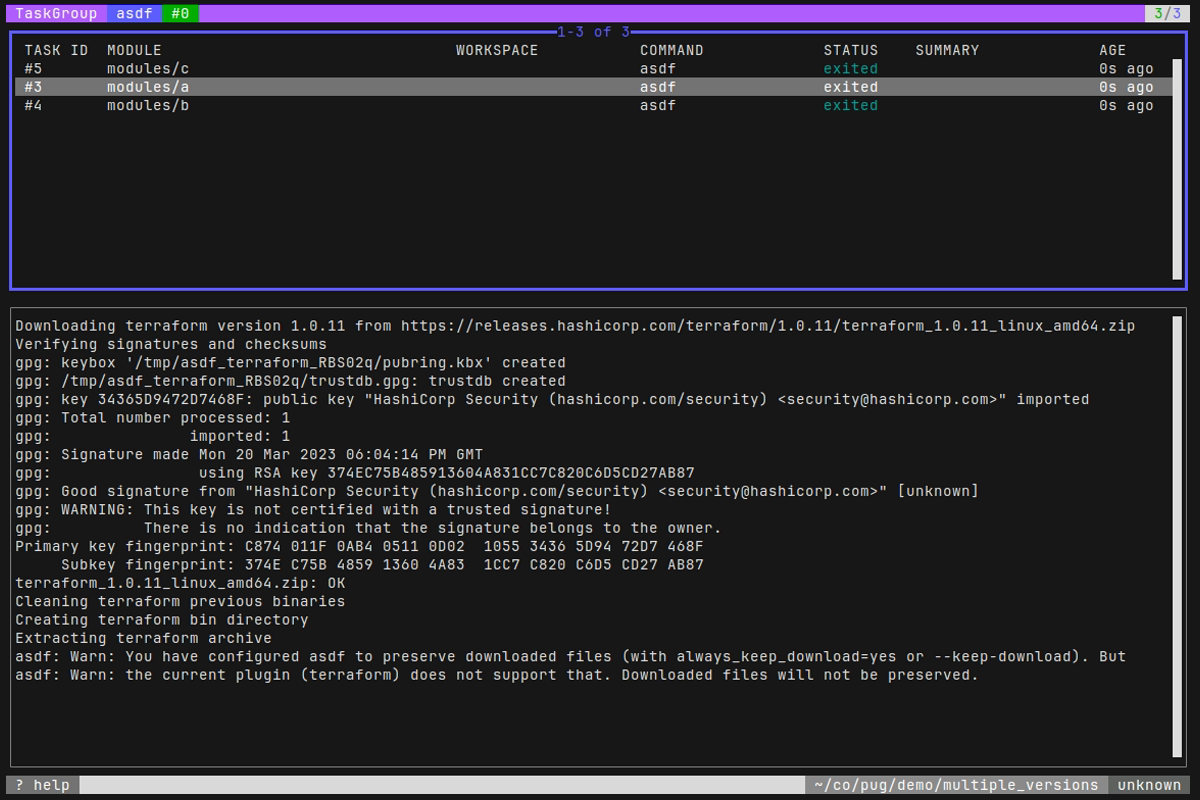
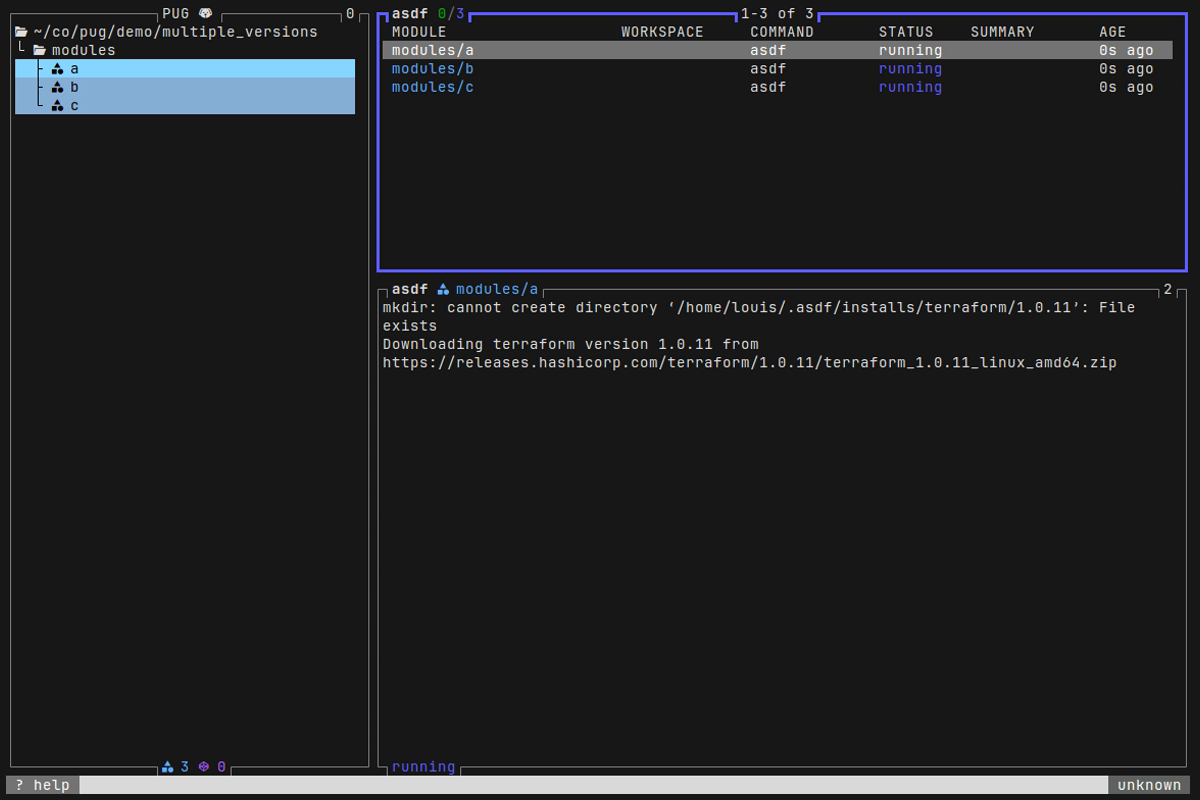
chore: update demo and docs

diff --git a/internal/tui/top/model.go b/internal/tui/top/model.go
@@ -72,6 +72,7 @@ func newModel(cfg app.Config, app *app.App) (model, error) {
 		States:     app.States,
 		Tasks:      app.Tasks,
 		Logger:     app.Logger,
+		Workdir:    cfg.Workdir,
 	}
 	spinner := spinner.New(spinner.WithSpinner(spinner.Line))
 	makers := makeMakers(cfg, app, &spinner, helpers)
@@ -353,7 +354,6 @@ func (m model) View() string {
 			Render(m.info)
 	}
 	footer += versionWidget
-	footer += pugIconWidget
 	// Add footer
 	components = append(components, tui.Regular.
 		Inline(true).
@@ -366,13 +366,12 @@ func (m model) View() string {
 
 var (
 	helpWidget    = tui.Padded.Background(tui.Grey).Foreground(tui.White).Render("? help")
-	pugIconWidget = tui.Padded.Background(tui.HotPink).Foreground(tui.EvenLighterGrey).Render(" ")
 	versionWidget = tui.Padded.Background(tui.DarkGrey).Foreground(tui.White).Render(version.Version)
 )
 
 func (m model) availableFooterMsgWidth() int {
 	// -2 to accommodate padding
-	return max(0, m.width-lipgloss.Width(helpWidget)-lipgloss.Width(pugIconWidget)-lipgloss.Width(versionWidget))
+	return max(0, m.width-lipgloss.Width(helpWidget)-lipgloss.Width(versionWidget))
 }
 
 // type taskCompletionMsg struct {

diff --git a/internal/tui/style.go b/internal/tui/style.go
@@ -10,15 +10,6 @@ var (
 	Border      = Regular.Border(lipgloss.NormalBorder())
 	ThickBorder = Regular.Border(lipgloss.ThickBorder()).BorderForeground(Violet)
 
-	Title          = Padded.Foreground(White).Background(Purple)
-	TitleCommand   = Padded.Foreground(White).Background(Blue)
-	TitlePath      = Padded.Foreground(White).Background(modulePathColor)
-	TitleWorkspace = Padded.Foreground(White).Background(Green)
-	TitleID        = Padded.Foreground(White).Background(Green)
-	TitleAddress   = Padded.Foreground(White).Background(Blue)
-	TitleSerial    = Padded.Foreground(Black).Background(Orange)
-	TitleTainted   = Padded.Foreground(White).Background(Red)
-
-	ModuleStyle    = Regular.Foreground(Purple)
-	WorkspaceStyle = Regular.Foreground(Pink)
+	ModuleStyle    = Regular.Foreground(DarkishGreen)
+	WorkspaceStyle = Regular.Foreground(Purple)
 )

diff --git a/internal/tui/color.go b/internal/tui/color.go
@@ -13,6 +13,7 @@ const (
 	Green           = lipgloss.Color("34")
 	Turquoise       = lipgloss.Color("86")
 	DarkGreen       = lipgloss.Color("#325451")
+	DarkishGreen    = lipgloss.Color("75")
 	LightGreen      = lipgloss.Color("47")
 	GreenBlue       = lipgloss.Color("#00A095")
 	DeepBlue        = lipgloss.Color("39")
@@ -26,7 +27,6 @@ const (
 	DarkGrey        = lipgloss.Color("#606362")
 	White           = lipgloss.Color("#ffffff")
 	OffWhite        = lipgloss.Color("#a8a7a5")
-	Pink            = lipgloss.Color("30")
 	HotPink         = lipgloss.Color("200")
 )
 
@@ -62,11 +62,6 @@ var (
 	TitleColor = lipgloss.AdaptiveColor{
 		Dark:  "",
 		Light: "",
-	}
-
-	modulePathColor = lipgloss.AdaptiveColor{
-		Dark:  string(Grey),
-		Light: string(Grey),
 	}
 
 	GroupReportBackgroundColor = EvenLighterGrey

diff --git a/internal/tui/helpers.go b/internal/tui/helpers.go
@@ -8,6 +8,7 @@ import (
 	"github.com/charmbracelet/bubbles/key"
 	tea "github.com/charmbracelet/bubbletea"
 	"github.com/charmbracelet/lipgloss"
+	"github.com/leg100/pug/internal"
 	"github.com/leg100/pug/internal/logging"
 	"github.com/leg100/pug/internal/module"
 	"github.com/leg100/pug/internal/plan"
@@ -30,6 +31,7 @@ type Helpers struct {
 	Tasks      *task.Service
 	States     *state.Service
 	Logger     logging.Interface
+	Workdir    internal.Workdir
 }
 
 func (h *Helpers) ModuleCurrentWorkspace(mod *module.Module) *workspace.Workspace {

diff --git a/internal/tui/actions.go b/internal/tui/actions.go
@@ -131,6 +131,19 @@ func (m *ActionHandler) Update(msg tea.Msg) tea.Cmd {
 				return nil
 			}
 			return NavigateTo(ResourceListKind, WithParent(ids[0]))
+		case key.Matches(msg, keys.Common.Edit):
+			ids, err := m.GetModuleIDs()
+			if err != nil {
+				return ReportError(err)
+			}
+			if len(ids) == 0 {
+				return nil
+			}
+			mod, err := m.Modules.Get(ids[0])
+			if err != nil {
+				return ReportError(err)
+			}
+			return OpenEditor(m.Workdir.Join(mod.Path))
 		}
 	}
 	return nil

diff --git a/internal/tui/explorer/model.go b/internal/tui/explorer/model.go
@@ -268,6 +268,7 @@ func (m model) BorderText() map[tui.BorderPosition]string {
 		tui.WorkspaceStyle.Render(fmt.Sprintf("%d", m.tracker.totalWorkspaces)),
 	)
 	return map[tui.BorderPosition]string{
+		tui.TopMiddleBorder:    "PUG  ",
 		tui.BottomMiddleBorder: fmt.Sprintf("%s %s", modules, workspaces),
 	}
 }

diff --git a/README.md b/README.md
@@ -64,7 +64,6 @@ FLAGS
       --data-dir STRING              Directory in which to store plan files. (default: /home/louis/.pug)
   -e, --env STRING                   Environment variable to pass to terraform process. Can set more than once.
   -a, --arg STRING                   CLI arg to pass to terraform process. Can set more than once.
-  -f, --first-page STRING            The first page to open on startup. (default: modules)
   -d, --debug                        Log bubbletea messages to messages.log
   -v, --version                      Print version.
   -c, --config STRING                Path to config file. (default: /home/louis/.pug.yaml)
@@ -84,55 +83,40 @@ max-tasks: 100
 
 Pug automatically loads variables from a .tfvars file. It looks for a file named `<workspace>.tfvars` in the module directory, where `<workspace>` is the name of the workspace. For example, if the workspace is named `dev` then it'll look for `dev.tfvars`. If the file exists then it'll pass the name to `terraform plan`, e.g. for a workspace named `dev`, it'll invoke `terraform plan -vars-file=dev.tfvars`.
 
-## Pages
+## Panes
 
-### Modules
+### Explorer
+
+The explorer pane a tree of [modules](#module) and [workspaces](#workspace) discovered on your filesystem. From here, terraform commands can be carried out on both modules and workspaces.
+
+You can select multiple modules or workspaces; you cannot select a combination of the two. Any terraform commands are then carried out on the selection.
+
+The number of resources in the state is shown alongside the workspace.
 
 ![Modules screenshot](./demo/modules.png)
  
-Press `m` to go to the modules page.
-
-*Note: what Pug calls a module is equivalent to a [root module](https://developer.hashicorp.com/terraform/language/modules#the-root-module), i.e. a directory containing terraform configuration, including a state backend. It is not to be confused with a [child module](https://developer.hashicorp.com/terraform/language/modules#child-modules).*
-
 #### Key bindings
 
-| Key | Description | Multi-select |
-|--|--|--|
-|`i`|Run `terraform init`|&check;|
-|`u`|Run `terraform init -upgrade`|&check;|
-|`f`|Run `terraform fmt`|&check;|
-|`v`|Run `terraform validate`|&check;|
-|`p`|Run `terraform plan`|&check;|
-|`P`|Run `terraform plan -destroy`|&check;|
-|`a`|Run `terraform apply`|&check;|
-|`d`|Run `terraform apply -destroy`|&check;|
-|`e`|Open module in editor|&cross;|
-|`x`|Run any program|&check;|
-|`Ctrl+r`|Reload all modules|-|
-|`Ctrl+w`|Reload module's workspaces|&check;|
+| Key | Description | Multi-select | Module | Workspace |
+|--|--|--|--|--|
+|`i`|Run `terraform init`|&check;|&check;|&check;\*\*|
+|`u`|Run `terraform init -upgrade`|&check;|&check;|&check;\*\*|
+|`f`|Run `terraform fmt`|&check;|&check;|&check;\*\*|
+|`v`|Run `terraform validate`|&check;|&check;|&check;\*\*|
+|`p`|Run `terraform plan`|&check;|&check;\*|&check;|
+|`P`|Run `terraform plan -destroy`|&check;|&check;\*|&check;|
+|`a`|Run `terraform apply`|&check;|&check;\*|&check;|
+|`d`|Run `terraform apply -destroy`|&check;|&check;\*|&check;|
+|`C`|Run `terraform workspace select`|&cross;|&cross;|&check;|
+|`$`|Run `infracost breakdown`|&check;|&check;\*|&check;|
+|`E`|Open module in editor|&cross;|&check;|&check;\*\*|
+|`x`|Run any program|&check;|&check;|&check;\*\*|
+|`Ctrl+r`|Reload all modules|-|&check;|&check;|
+|`Ctrl+w`|Reload module's workspaces|&check;|&check;|&check;\*\*|
 
-### Workspaces
+\* Operate on module's current workspace.
 
-![Workspaces screenshot](./demo/workspaces.png)
-
-Press `w` to go to the workspaces page.
-
-*Note: A workspace is directly equivalent to a [terraform workspace](https://developer.hashicorp.com/terraform/language/state/workspaces).*
-
-#### Key bindings
-
-| Key | Description | Multi-select |
-|--|--|--|
-|`i`|Run `terraform init`|&check;|
-|`u`|Run `terraform init -upgrade`|&check;|
-|`f`|Run `terraform fmt`|&check;|
-|`v`|Run `terraform validate`|&check;|
-|`p`|Run `terraform plan`|&check;|
-|`P`|Run `terraform plan -destroy`|&check;|
-|`a`|Run `terraform apply`|&check;|
-|`d`|Run `terraform apply -destroy`|&check;|
-|`C`|Run `terraform workspace select`|&cross;|
-|`$`|Run `infracost breakdown`|&check;|
+\*\* Operate on workspace's parent module.
 
 ### State
 
@@ -149,14 +133,10 @@ Press `s` to go to the state page, listing a workspace's resources.
 |`a`|Run `terraform apply -target`|&check;|
 |`d`|Run `terraform apply -destroy -target`|&check;|
 |`D`|Run `terraform state rm`|&check;|
-|`M`|Run `terraform state mv`|&cross;|
+|`m`|Run `terraform state mv`|&cross;|
 |`Ctrl+t`|Run `terraform taint`|&check;|
 |`U`|Run `terraform untaint`|&check;|
 |`Ctrl+r`|Run `terraform state pull`|-|
-|`S`|Toggle split screen|-|
-|`+`|Increase split screen top pane|-|
-|`-`|Decrease split screen top pane|-|
-|`tab`|Switch split screen pane focus|-|
 
 ### Tasks
 
@@ -170,11 +150,6 @@ Press `t` to go to the tasks page.
 |--|--|--|
 |`c`|Cancel task|&check;|
 |`r`|Retry task|&check;|
-|`Enter`|Full screen task output|&cross;|
-|`S`|Toggle split screen|-|
-|`+`|Increase split screen top pane|-|
-|`-`|Decrease split screen top pane|-|
-|`tab`|Switch split screen pane focus|-|
 |`I`|Toggle task info sidebar|-|
 
 ### Task Group
@@ -189,11 +164,6 @@ Creating multiple tasks, via a selection, creates a task group, and takes you to
 |--|--|--|
 |`c`|Cancel task|&check;|
 |`r`|Retry task|&check;|
-|`Enter`|Full screen task output|&cross;|
-|`S`|Toggle split screen|-|
-|`+`|Increase split screen top pane|-|
-|`-`|Decrease split screen top pane|-|
-|`tab`|Switch split screen pane focus|-|
 |`I`|Toggle task info sidebar|-|
 
 ### Task Groups Listing
@@ -218,16 +188,26 @@ These keys are valid on any page.
 |--|--|
 |`?`|Open help pane|
 |`Ctrl+c`|Quit|
-|`Esc`|Go to previous page|
-|`m`|Go to modules page|
-|`w`|Go to workspaces page|
-|`s`|Go to state page\*|
-|`t`|Go to tasks page|
-|`T`|Go to task groups page|
+|`Esc`|Go to previous page\*\*|
+|`0`|Focus left pane (explorer)|
+|`1`|Focus top right pane|
+|`2`|Focus bottom right pane|
+|`e`|Go to explorer|
+|`s`|Go to state \*|
+|`t`|Go to tasks|
+|`T`|Go to task groups|
 |`l`|Go to logs|
+|`X`|Close pane|
+|`+`|Increase pane height|-|
+|`-`|Decrease pane height|-|
+|`<`|Increase pane width|-|
+|`>`|Decrease pane width|-|
+|`tab`|Switch split screen pane focus|-|
 |`Ctrl+s`|Toggle auto-scrolling of terraform output|
 
 \* Only where the workspace can be ascertained.
+
+\*\* Only history for the top right pane is maintained.
 
 ### Selections
 
@@ -254,7 +234,7 @@ Items can be filtered to those containing a sub-string.
 
 ### Navigation
 
-Common vim key bindings are supported for navigation.
+Common vim key bindings are supported for navigating task output.
 
 | Key | Description |
 |--|--|
